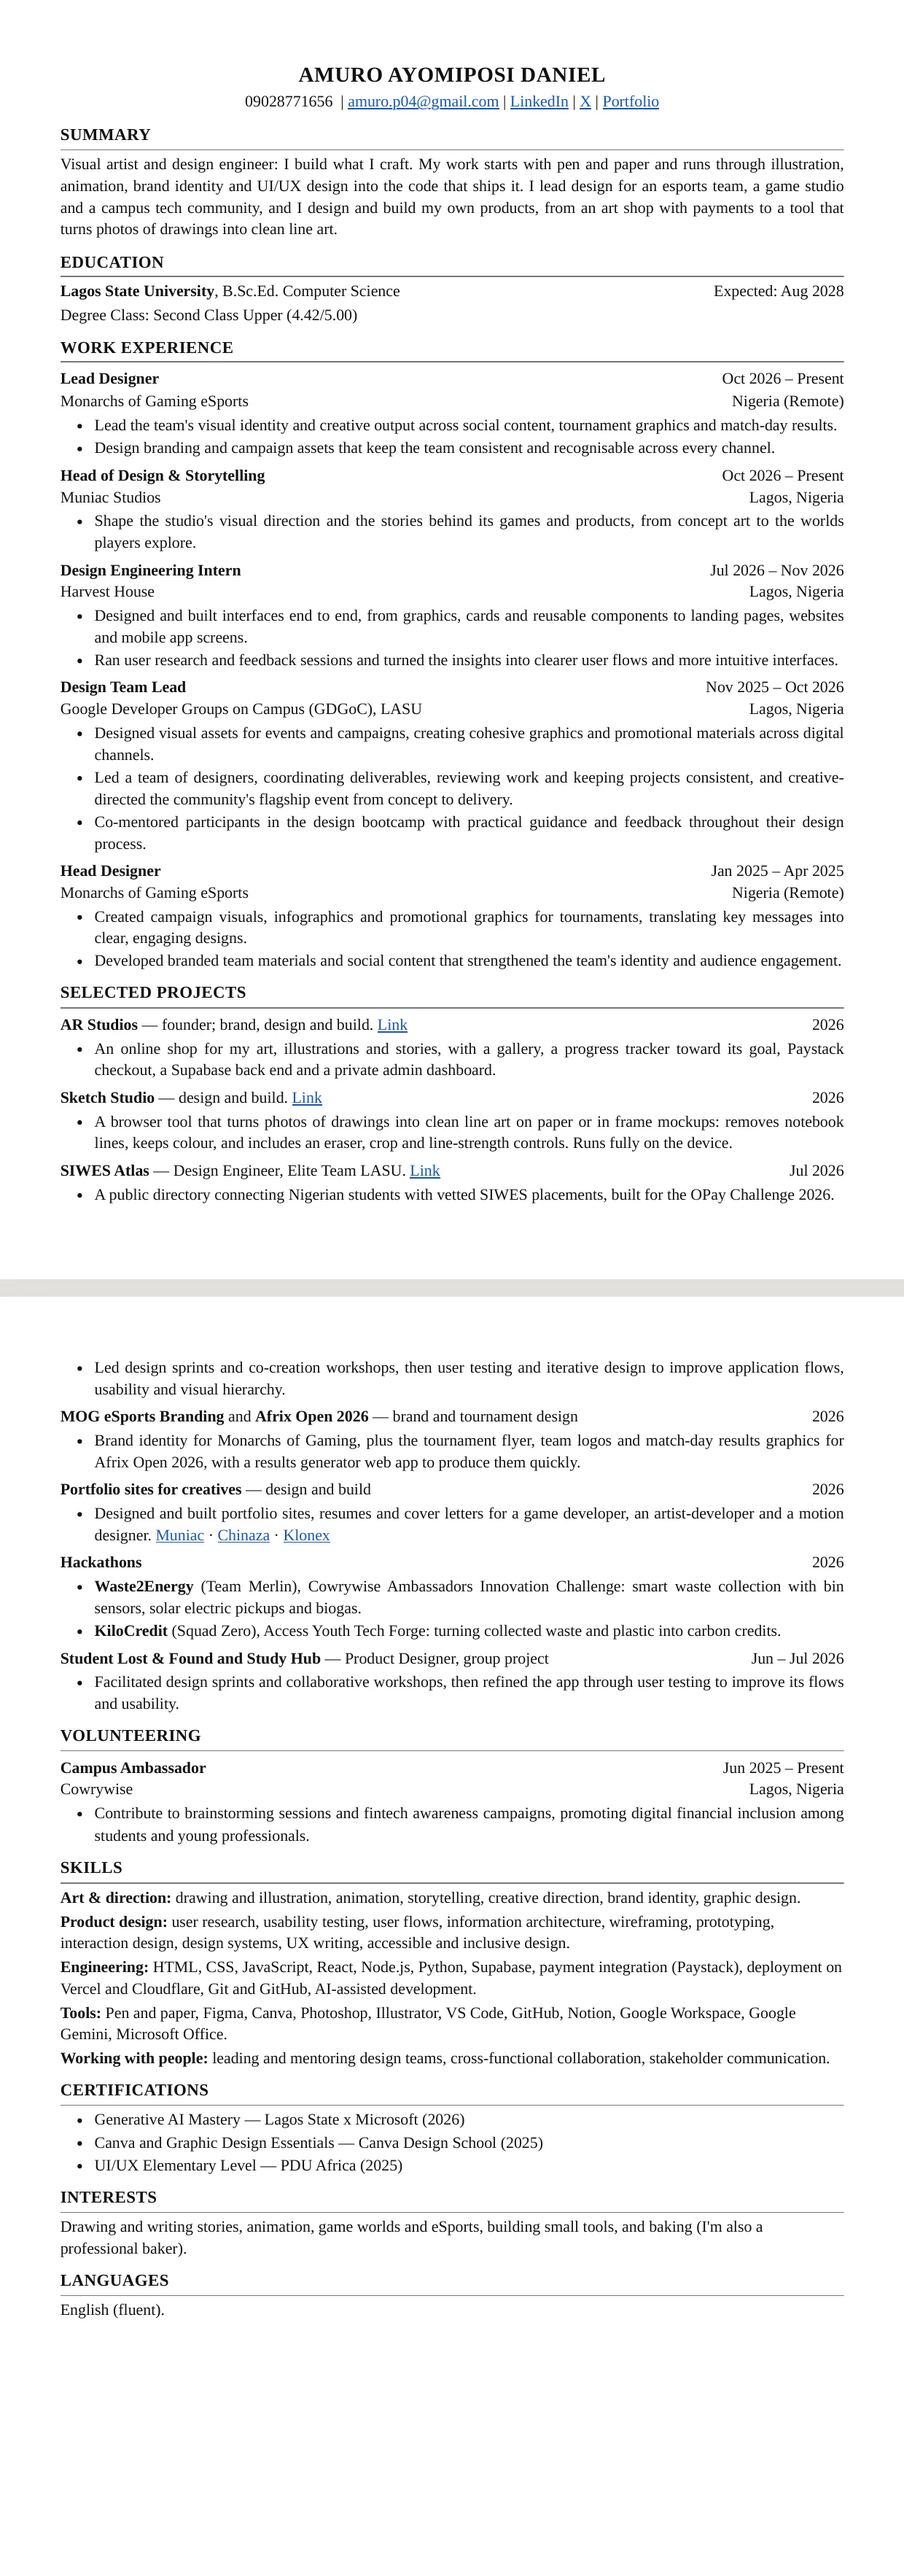
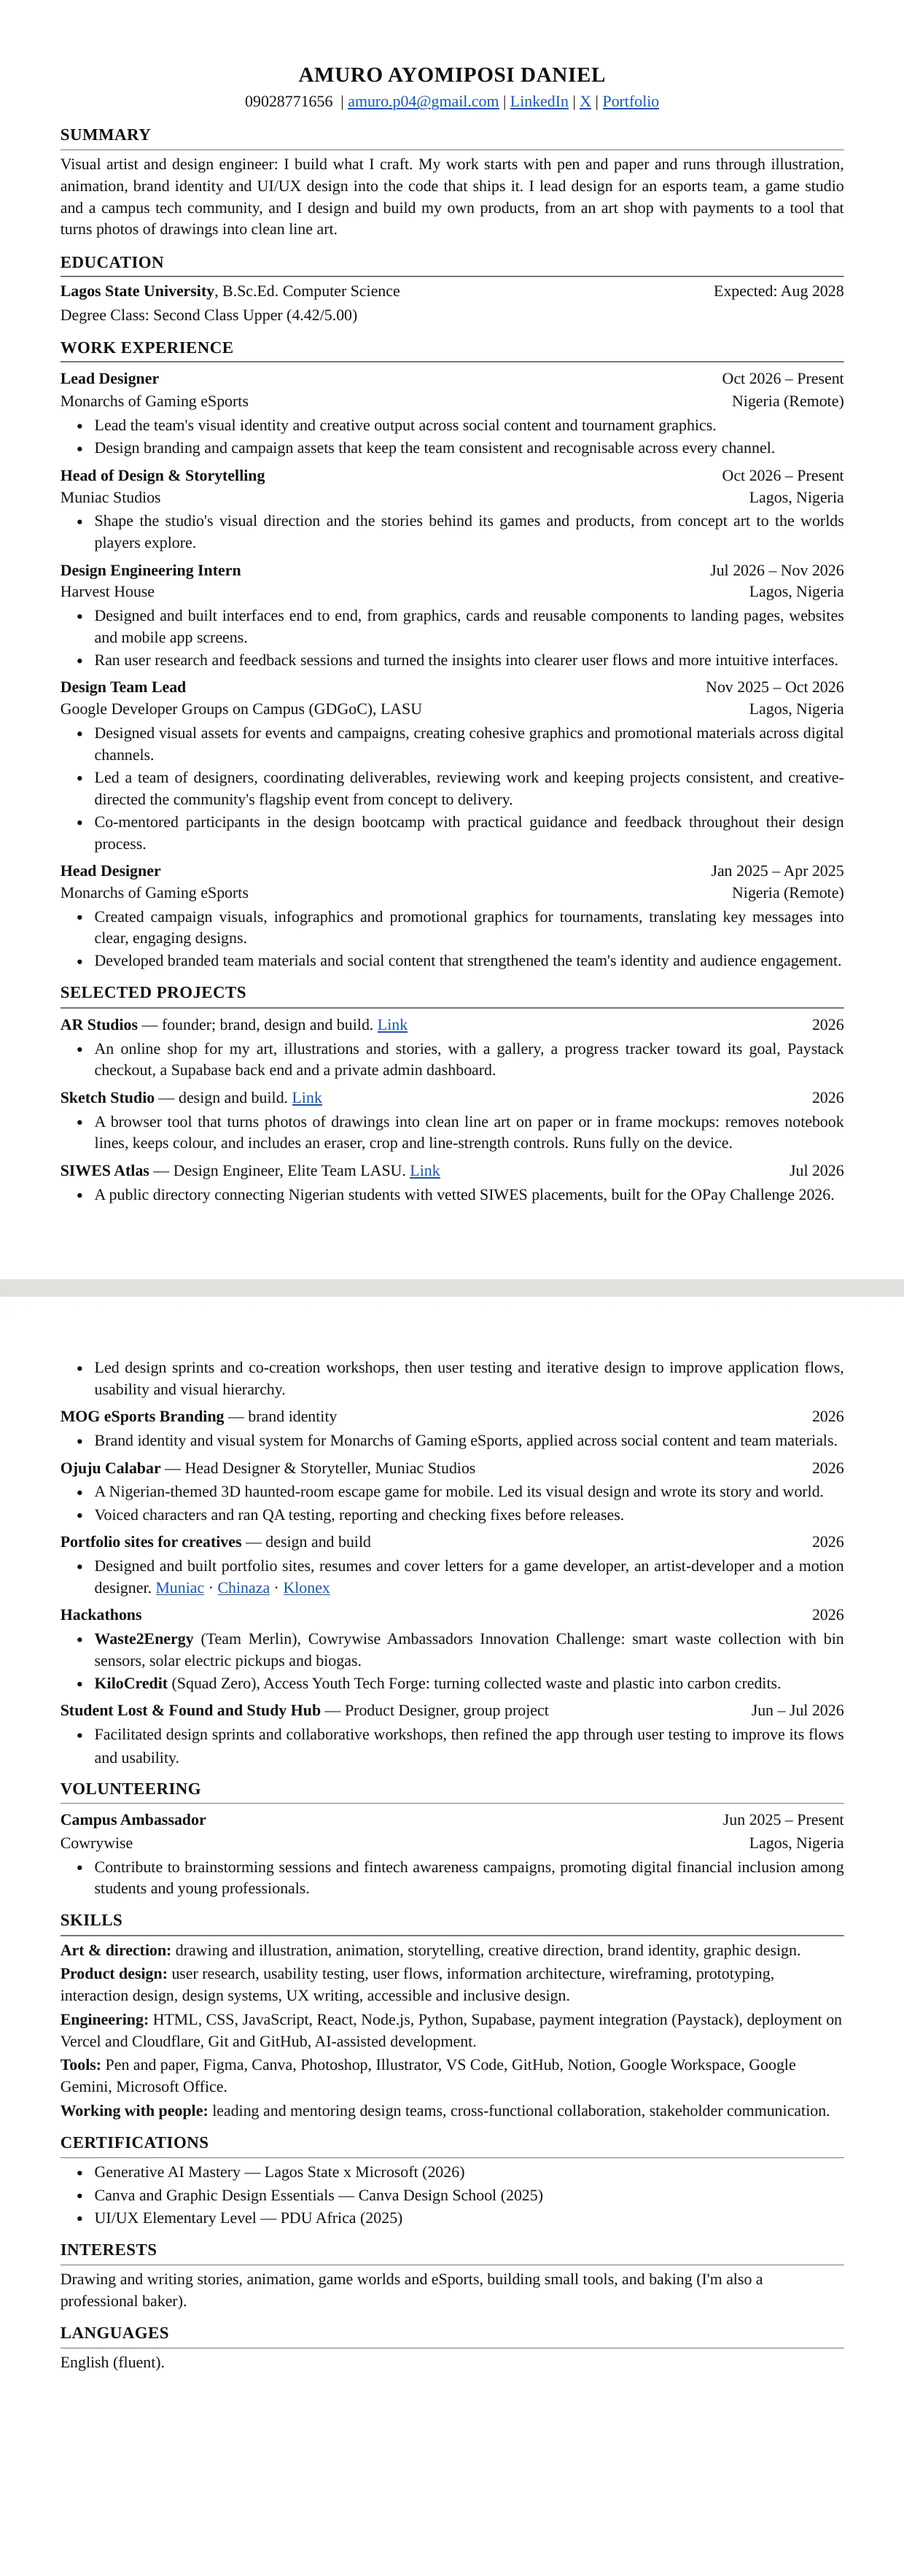
Resume: add Ojuju Calabar, remove Afrix Open
Claude-Session: https://claude.ai/code/session_01FznZV5MkKYJcrxBuXv8rFi

Changed region(s): [[0.0613, 0.5294, 0.95, 0.9343]]

diff --git a/docs/cv-source.html b/docs/cv-source.html
@@ -34,7 +34,7 @@ a{color:#1155cc}
 <div class="role">
   <div class="row"><span class="t">Lead Designer</span><span>Oct 2026 – Present</span></div>
   <div class="row"><span>Monarchs of Gaming eSports</span><span>Nigeria (Remote)</span></div>
-  <ul><li>Lead the team's visual identity and creative output across social content, tournament graphics and match-day results.</li><li>Design branding and campaign assets that keep the team consistent and recognisable across every channel.</li></ul>
+  <ul><li>Lead the team's visual identity and creative output across social content and tournament graphics.</li><li>Design branding and campaign assets that keep the team consistent and recognisable across every channel.</li></ul>
 </div>
 <div class="role">
   <div class="row"><span class="t">Head of Design &amp; Storytelling</span><span>Oct 2026 – Present</span></div>
@@ -71,8 +71,15 @@ a{color:#1155cc}
   <ul><li>A public directory connecting Nigerian students with vetted SIWES placements, built for the OPay Challenge 2026.</li><li>Led design sprints and co-creation workshops, then user testing and iterative design to improve application flows, usability and visual hierarchy.</li></ul>
 </div>
 <div class="role">
-  <div class="row"><span><b>MOG eSports Branding</b> and <b>Afrix Open 2026</b> — brand and tournament design</span><span>2026</span></div>
-  <ul><li>Brand identity for Monarchs of Gaming, plus the tournament flyer, team logos and match-day results graphics for Afrix Open 2026, with a results generator web app to produce them quickly.</li></ul>
+  <div class="row"><span><b>MOG eSports Branding</b> — brand identity</span><span>2026</span></div>
+  <ul><li>Brand identity and visual system for Monarchs of Gaming eSports, applied across social content and team materials.</li></ul>
+</div>
+<div class="role">
+  <div class="row"><span><b>Ojuju Calabar</b> — Head Designer &amp; Storyteller, Muniac Studios</span><span>2026</span></div>
+  <ul>
+    <li>A Nigerian-themed 3D haunted-room escape game for mobile. Led its visual design and wrote its story and world.</li>
+    <li>Voiced characters and ran QA testing, reporting and checking fixes before releases.</li>
+  </ul>
 </div>
 <div class="role">
   <div class="row"><span><b>Portfolio sites for creatives</b> — design and build</span><span>2026</span></div>
